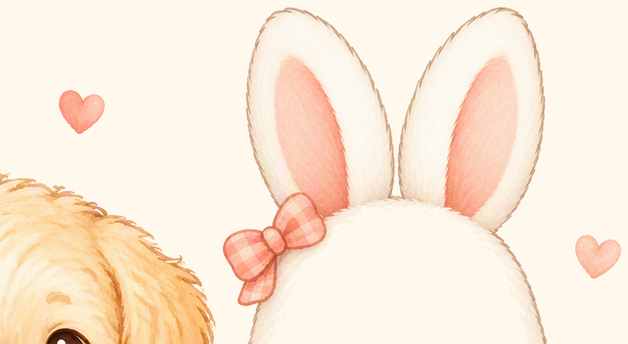
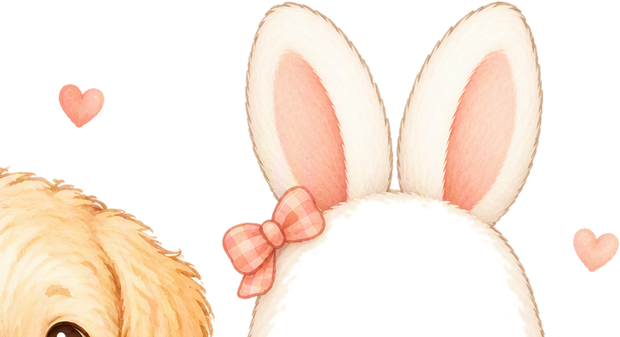
fix: hero 透明背景真正根治——去掉 border-image（Alpha 复合的元凶）；用户令「首页也是一张小图完整展示透明背景」；①tutorialCard QSS 移除 border-image（border-image 层破坏子控件 Alpha 复合=白底真正根因，第7次终于从源头根治）；②hero 改 RGBA 透明+按显示位等比缩放 620×337 完整展示；③视觉确认：三宠+飘心+透明底融入奶油卡片；VERDICT 1074

diff --git a/petpet/ui/tutorial.py b/petpet/ui/tutorial.py
@@ -98,7 +98,6 @@ class TutorialWindow(KeepAliveTopLevelWindow):
             }
             QFrame#tutorialCard {
                 background:#fff8ec;
-                border-image: url(ui/tutorial/tutorial_bg.png) 0 stretch stretch;
                 border:1px solid #e7c4ad;
                 border-radius:24px;
                 color:#65483b;
@@ -224,7 +223,7 @@ QPushButton {
         self.hero_label.setObjectName("tutorialHero")
         self.hero_label.setAlignment(Qt.AlignCenter)
         self.hero_label.setAttribute(Qt.WA_TranslucentBackground, True)
-        self.hero_label.setFixedSize(628, 345)
+        self.hero_label.setFixedSize(628, 340)
         root.addWidget(self.hero_label)
 
         self.icon_label = QLabel()
